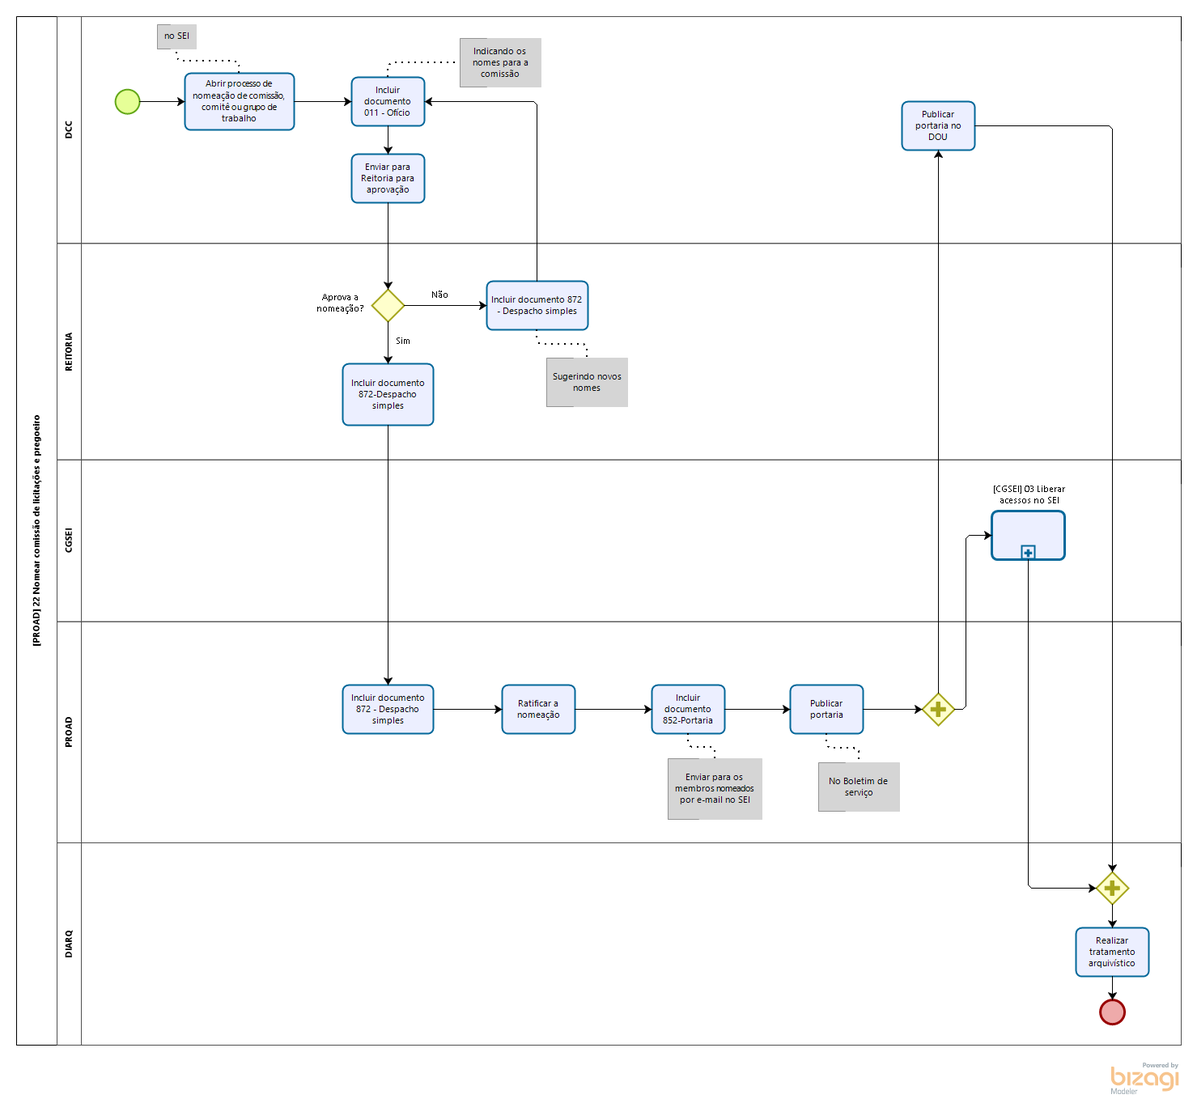
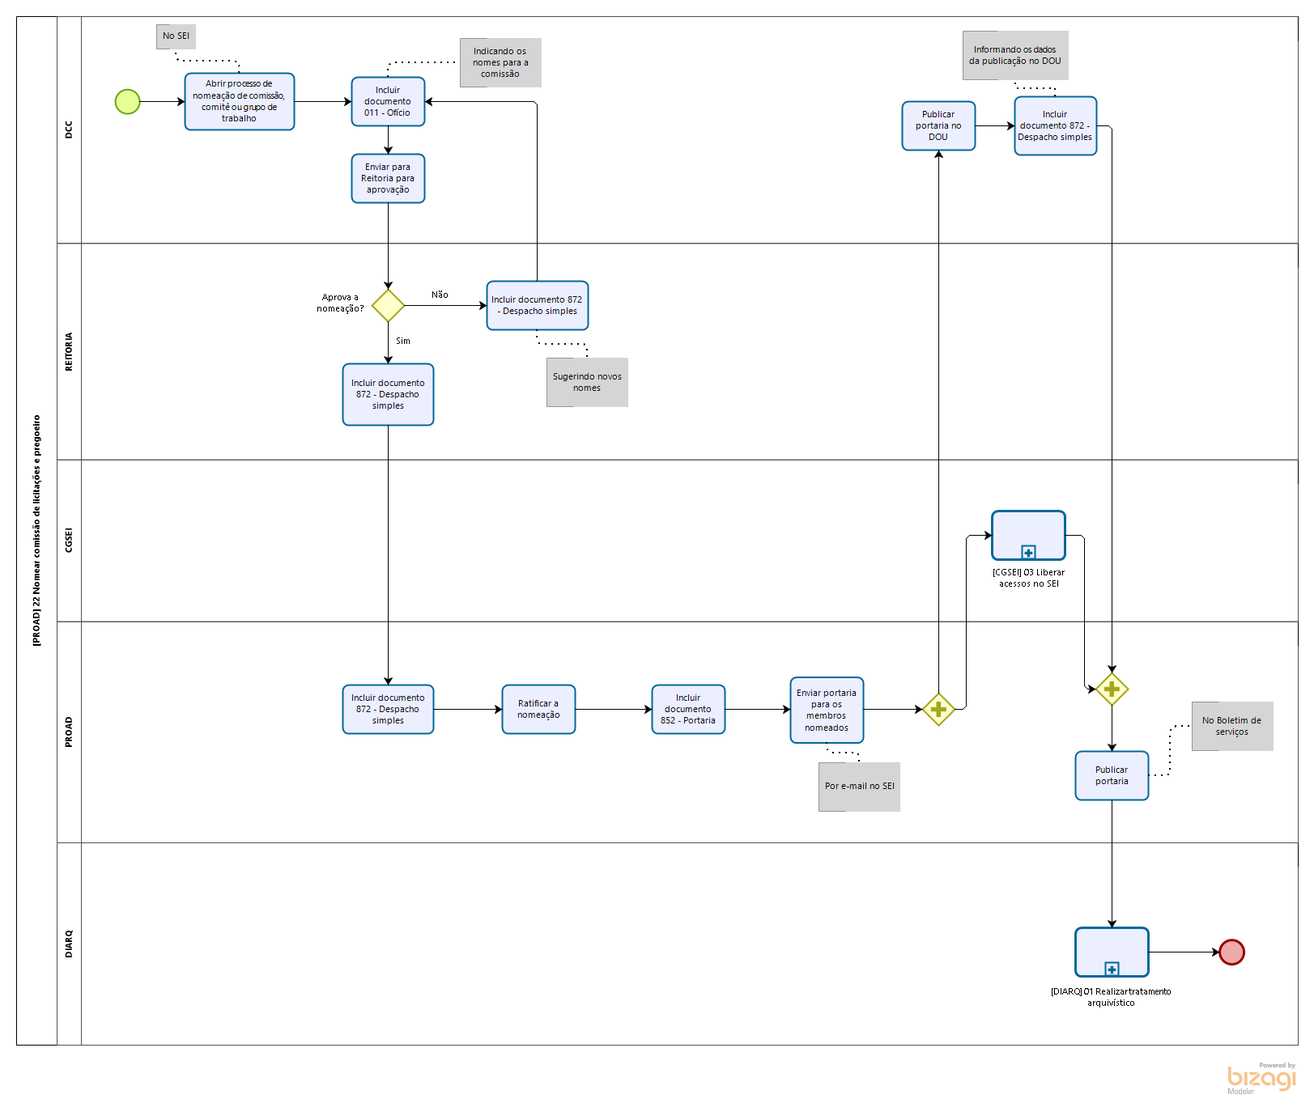
PROAD 22

diff --git a/PROAD/PROAD 22 Nomear comissão de licitações e pregoeiro/libs/js/json/configuration.json.js b/PROAD/PROAD 22 Nomear comissão de licitações e pregoeiro/libs/js/json/configuration.json.js
@@ -1,1 +1,1 @@
-Bizagi.AppModel = {"personalized":false,"userLogoName":"\\libs\\img\\biz-ex-logo.png","bizagiUrl":"http://www.bizagi.com","productName":"Bizagi Modeler","modelName":"[PROAD] 22 Nomear comissão de licitações e pregoeiro","publishDate":"10/12/2020 11:36:10","pages":[{"id":"64fc5b41-b03e-4a25-958b-0a0269b7d483","name":"[PROAD] 22 Nomear comissão de licitações e pregoeiro","version":"1.0","author":"Bruno Fernandes","image":"files\\diagrams\\PROAD]_22_Nomear_comissao_de_licitacoes_e_pregoeiro.png","isSubprocessPage":false,"elements":[{"id":"ba6270e8-99f4-4b16-87a6-168e9b2f3375","name":"[PROAD] 22 Nomear comissão de licitações e pregoeiro","elementImage":"files\\bpmnElements\\Participant.png","imageBounds":{"points":[{"x":20.0,"y":20.0}],"radius":0.0,"height":1271.0,"width":50.0,"shape":"rect"},"elementType":"Participant","properties":[],"pageElements":[{"id":"da5a8ebd-896b-4e00-bd02-a9fc35922fbb","name":"Nenhum início","elementImage":"files\\bpmnElements\\NoneStart.png","imageBounds":{"points":[{"x":142.0,"y":110.0}],"radius":15.0,"height":30.0,"width":30.0,"shape":"circle"},"elementType":"NoneStart"},{"id":"8e854ee1-35b8-4cb5-bea4-b5c12809ac92","name":"Abrir processo de  nomeação de comissão, comitê ou grupo de trabalho","elementImage":"files\\bpmnElements\\AbstractTask.png","imageBounds":{"points":[{"x":228.0,"y":90.0}],"radius":0.0,"height":70.0,"width":135.0,"shape":"rect"},"elementType":"AbstractTask","properties":[]},{"id":"57d8ec68-05e8-4bab-9058-42f4c6c63956","name":"DCC","elementImage":"files\\bpmnElements\\Lane.png","imageBounds":{"points":[{"x":70.0,"y":20.0}],"radius":0.0,"height":280.2,"width":30.0,"shape":"rect"},"elementType":"Lane"},{"id":"ef9a8643-b8ec-4fb7-ab63-4c253a6f71a9","name":"REITORIA","elementImage":"files\\bpmnElements\\Lane.png","imageBounds":{"points":[{"x":70.0,"y":300.2}],"radius":0.0,"height":267.5,"width":30.0,"shape":"rect"},"elementType":"Lane"},{"id":"90c2c290-04de-473e-875b-03fd46831cf9","name":"PROAD","elementImage":"files\\bpmnElements\\Lane.png","imageBounds":{"points":[{"x":70.0,"y":767.7}],"radius":0.0,"height":273.3,"width":30.0,"shape":"rect"},"elementType":"Lane"},{"id":"57d8ec68-05e8-4bab-9058-42f4c6c63956","name":"DCC","elementImage":"files\\bpmnElements\\Lane.png","imageBounds":{"points":[{"x":70.0,"y":20.0}],"radius":0.0,"height":280.2,"width":30.0,"shape":"rect"},"elementType":"Lane"},{"id":"ef9a8643-b8ec-4fb7-ab63-4c253a6f71a9","name":"REITORIA","elementImage":"files\\bpmnElements\\Lane.png","imageBounds":{"points":[{"x":70.0,"y":300.2}],"radius":0.0,"height":267.5,"width":30.0,"shape":"rect"},"elementType":"Lane"},{"id":"90c2c290-04de-473e-875b-03fd46831cf9","name":"PROAD","elementImage":"files\\bpmnElements\\Lane.png","imageBounds":{"points":[{"x":70.0,"y":767.7}],"radius":0.0,"height":273.3,"width":30.0,"shape":"rect"},"elementType":"Lane"},{"id":"e2c154f0-beac-4049-bf70-78d9eca9ef02","name":"Incluir documento 011 - Ofício","elementImage":"files\\bpmnElements\\AbstractTask.png","imageBounds":{"points":[{"x":434.0,"y":95.0}],"radius":0.0,"height":60.0,"width":90.0,"shape":"rect"},"elementType":"AbstractTask","properties":[]},{"id":"6f99d1d7-82e8-4f7c-b877-13d1266030d3","name":"Enviar para Reitoria para aprovação","elementImage":"files\\bpmnElements\\AbstractTask.png","imageBounds":{"points":[{"x":434.0,"y":190.0}],"radius":0.0,"height":60.0,"width":90.0,"shape":"rect"},"elementType":"AbstractTask","properties":[]},{"id":"c2799ef6-8d69-45f1-9096-376ca0eb63aa","name":"Aprova a nomeação?","elementImage":"files\\bpmnElements\\ExclusiveGateway.png","imageBounds":{"points":[{"x":459.0,"y":357.0}],"radius":0.0,"height":40.0,"width":40.0,"shape":"poly"},"elementType":"ExclusiveGateway","properties":[],"pageElements":[{"name":"Sim","elementType":"SequenceFlow","properties":[]},{"name":"Não","elementType":"SequenceFlow","properties":[]}]},{"id":"3b0ee128-5350-4245-8848-e87b3ca53395","name":"Incluir documento 872- Despacho simples","elementImage":"files\\bpmnElements\\AbstractTask.png","imageBounds":{"points":[{"x":601.0,"y":347.0}],"radius":0.0,"height":60.0,"width":125.0,"shape":"rect"},"elementType":"AbstractTask","properties":[]},{"id":"ff5251ca-e940-4129-a2d6-00d5cb6e92ca","name":"Incluir documento 872-Despacho simples","elementImage":"files\\bpmnElements\\AbstractTask.png","imageBounds":{"points":[{"x":423.0,"y":449.0}],"radius":0.0,"height":76.0,"width":112.0,"shape":"rect"},"elementType":"AbstractTask","properties":[]},{"id":"d5491ead-7482-47f9-8b35-8c26db7b340d","name":"Incluir documento 872 - Despacho simples","elementImage":"files\\bpmnElements\\AbstractTask.png","imageBounds":{"points":[{"x":423.0,"y":846.0}],"radius":0.0,"height":60.0,"width":112.0,"shape":"rect"},"elementType":"AbstractTask","properties":[]},{"id":"7b7dd0c7-d32e-42b6-af49-aeb5d478c326","name":"Ratificar a nomeação","elementImage":"files\\bpmnElements\\AbstractTask.png","imageBounds":{"points":[{"x":620.0,"y":846.0}],"radius":0.0,"height":60.0,"width":90.0,"shape":"rect"},"elementType":"AbstractTask","properties":[]},{"id":"81e67d46-94cf-4c85-966d-fb8994207d53","name":"Incluir documento 852-Portaria","elementImage":"files\\bpmnElements\\AbstractTask.png","imageBounds":{"points":[{"x":805.0,"y":846.0}],"radius":0.0,"height":60.0,"width":90.0,"shape":"rect"},"elementType":"AbstractTask","properties":[]},{"id":"2d366a00-d49a-4fe0-94fa-05c2d1e3270e","name":"Publicar portaria","elementImage":"files\\bpmnElements\\AbstractTask.png","imageBounds":{"points":[{"x":976.0,"y":846.0}],"radius":0.0,"height":60.0,"width":90.0,"shape":"rect"},"elementType":"AbstractTask","properties":[]},{"id":"4969b5d2-f824-42e3-9bf7-12da68d71985","name":"Gateway paralelo","elementImage":"files\\bpmnElements\\ParallelGateway.png","imageBounds":{"points":[{"x":1139.0,"y":856.0}],"radius":0.0,"height":40.0,"width":40.0,"shape":"poly"},"elementType":"ParallelGateway","properties":[],"pageElements":[]},{"id":"147084a3-d3ad-4a9b-8532-55f50103b21e","name":"Publicar portaria no DOU","elementImage":"files\\bpmnElements\\AbstractTask.png","imageBounds":{"points":[{"x":1114.0,"y":125.0}],"radius":0.0,"height":60.0,"width":90.0,"shape":"rect"},"elementType":"AbstractTask","properties":[]},{"id":"a265e95a-54b6-413a-949a-63fee9dbc4ce","name":"[CGSEI] 03 Liberar acessos no SEI","description":"","elementImage":"files\\bpmnElements\\CallActivity.png","imageBounds":{"points":[{"x":1225.0,"y":631.0}],"radius":0.0,"height":60.0,"width":90.0,"shape":"rect"},"elementType":"CallActivity","properties":[],"presentationAction":{"value":"https://nqi.ufcspa.edu.br/wiki/processos/CGSEI/%5bCGSEI%5d%2003%20Liberar%20acessos%20no%20SEI/#list","type":"url"}},{"id":"e7890152-ce52-49d3-8ee7-d815984a65d1","name":"Gateway paralelo","elementImage":"files\\bpmnElements\\ParallelGateway.png","imageBounds":{"points":[{"x":1354.0,"y":1077.0}],"radius":0.0,"height":40.0,"width":40.0,"shape":"poly"},"elementType":"ParallelGateway","properties":[],"pageElements":[]},{"id":"9c193354-2b15-43d5-b228-4de8919eea5a","name":"Realizar tratamento arquivístico","elementImage":"files\\bpmnElements\\AbstractTask.png","imageBounds":{"points":[{"x":1329.0,"y":1146.0}],"radius":0.0,"height":60.0,"width":90.0,"shape":"rect"},"elementType":"AbstractTask","properties":[]},{"id":"c90f9850-667c-4e12-a139-5583dbb0e19b","name":"Nenhum final","elementImage":"files\\bpmnElements\\NoneEnd.png","imageBounds":{"points":[{"x":1359.0,"y":1235.0}],"radius":15.0,"height":30.0,"width":30.0,"shape":"circle"},"elementType":"NoneEnd"},{"id":"3848880f-bb76-43a7-882b-63dbb5c32749","name":"CGSEI","elementImage":"files\\bpmnElements\\Lane.png","imageBounds":{"points":[{"x":70.0,"y":567.7}],"radius":0.0,"height":200.0,"width":30.0,"shape":"rect"},"elementType":"Lane"},{"id":"1b283036-4679-4e38-ab5a-4e81e267622c","name":"DIARQ","elementImage":"files\\bpmnElements\\Lane.png","imageBounds":{"points":[{"x":70.0,"y":1041.0}],"radius":0.0,"height":250.0,"width":30.0,"shape":"rect"},"elementType":"Lane"}]}]}],"texts":{"tableOfContents":"Índice","pageNumber":"Página","pageNumberLabelOf":"de","version":"Versão","author":"Autor","description":"Descrição","mainPool":"Processo principal","mainPoolDescription":"Processo principal Descrição","processDiagrams":"Processar os Diagramas","processElements":"Elementos do processo","elements":"Elementos do processo","defaultElementName":"Elemento","performers":"Executantes","accountable":"Autoridade","consulted":"Consultado","informed":"Informado","connectors":"Conectores","connector":"Conector","home":"Principal","search":"Pesquisar","goToParentProcess":"<< Ir para Matriz","visitBizagi":"Visite bizagi.com","contains":"Contém {0} subprocessos","showAll":"Show all","fullScreen":"Tela inteira","zoomIn":"Ampliar","zoomOut":"Reduzir","close":"Fechar","menu":"Menu: ","errorPage":"Erro ao visualizar a página","process":"Processo","subProcess":"Subprocessos publicados","contain":"Contém","checkAttributes":"Ver atributos","checkOverview":"Ver resumo","unavailableResource":"O recurso não está disponível","localResource":"O recurso pode ser acessado localmente","performer":"Participantes","linktoimage":"Link para a  imagem","presentationAction":"Ações de apresentação","searchGlobal":"Busca todos","searchLocal":"Busca neste processo","searchResults":"Nenhum resultado encontrado","titlePage":"Start","emptyElement":"Este elemento ainda não foi documentado","unsupported":"Seu navegador não suporta conteúdo exibido por esta página. <br> Recomendamos que você atualizar o seu navegador.","details":"Detalhes","expand":"Expandir","mainPoolProperties":"Propriedades do Processo principal","cannotVisualize":"The page cannot be displayed","resourceNotFound":"The requested resource was not found:","applyTheme":"Applying new theme"},"searchMap":[{"containerId":"64fc5b41-b03e-4a25-958b-0a0269b7d483","containerName":"[PROAD] 22 Nomear comissão de licitações e pregoeiro","isSubprocess":false,"elements":[{"id":"ba6270e8-99f4-4b16-87a6-168e9b2f3375","value":"[PROAD] 22 Nomear comissão de licitações e pregoeiro"},{"id":"57d8ec68-05e8-4bab-9058-42f4c6c63956","value":"DCC"},{"id":"ef9a8643-b8ec-4fb7-ab63-4c253a6f71a9","value":"REITORIA"},{"id":"3848880f-bb76-43a7-882b-63dbb5c32749","value":"CGSEI"},{"id":"90c2c290-04de-473e-875b-03fd46831cf9","value":"PROAD"},{"id":"1b283036-4679-4e38-ab5a-4e81e267622c","value":"DIARQ"},{"id":"da5a8ebd-896b-4e00-bd02-a9fc35922fbb","value":""},{"id":"8e854ee1-35b8-4cb5-bea4-b5c12809ac92","value":"Abrir processo de  nomeação de comissão, comitê ou grupo de trabalho"},{"id":"e2c154f0-beac-4049-bf70-78d9eca9ef02","value":"Incluir documento 011 - Ofício"},{"id":"6f99d1d7-82e8-4f7c-b877-13d1266030d3","value":"Enviar para Reitoria para aprovação"},{"id":"c2799ef6-8d69-45f1-9096-376ca0eb63aa","value":"Aprova a nomeação?"},{"id":"ff5251ca-e940-4129-a2d6-00d5cb6e92ca","value":"Incluir documento 872-Despacho simples"},{"id":"3b0ee128-5350-4245-8848-e87b3ca53395","value":"Incluir documento 872- Despacho simples"},{"id":"d5491ead-7482-47f9-8b35-8c26db7b340d","value":"Incluir documento 872 - Despacho simples"},{"id":"7b7dd0c7-d32e-42b6-af49-aeb5d478c326","value":"Ratificar a nomeação"},{"id":"81e67d46-94cf-4c85-966d-fb8994207d53","value":"Incluir documento 852-Portaria"},{"id":"147084a3-d3ad-4a9b-8532-55f50103b21e","value":"Publicar portaria no DOU"},{"id":"2d366a00-d49a-4fe0-94fa-05c2d1e3270e","value":"Publicar portaria"},{"id":"9c193354-2b15-43d5-b228-4de8919eea5a","value":"Realizar tratamento arquivístico"},{"id":"c90f9850-667c-4e12-a139-5583dbb0e19b","value":""},{"id":"4969b5d2-f824-42e3-9bf7-12da68d71985","value":""},{"id":"e7890152-ce52-49d3-8ee7-d815984a65d1","value":""},{"id":"a265e95a-54b6-413a-949a-63fee9dbc4ce","value":"[CGSEI] 03 Liberar acessos no SEI"},{"id":"344d375e-92ae-4c0e-ac44-d79a0ffb0c77"},{"id":"81999514-4bc9-429d-99a4-53d998432d12"},{"id":"61d5a019-e163-47fc-b377-5ef99f2a3917"},{"id":"cf9b50cc-cc05-409a-86f4-30cd8761efe8"},{"id":"eec37038-e5d3-45b5-980f-f6a1b6ae4fbf"},{"id":"a9863260-39fe-4575-8215-0b0b3f1d585c"},{"id":"d6be0c3e-3e79-40c5-9936-cc0b3539259b"},{"id":"e10fc07d-c79c-4c75-ba32-6ff0dd61aa27"},{"id":"15988e49-9b43-4a05-be03-995670a70f96"},{"id":"799d159b-051e-4e15-a0ab-5075e9b3941c"}]}]}
+Bizagi.AppModel = {"personalized":false,"userLogoName":"\\libs\\img\\biz-ex-logo.png","bizagiUrl":"http://www.bizagi.com","productName":"Bizagi Modeler","modelName":"[PROAD] 22 Nomear comissão de licitações e pregoeiro","publishDate":"20/04/2022 11:36:55","pages":[{"id":"64fc5b41-b03e-4a25-958b-0a0269b7d483","name":"[PROAD] 22 Nomear comissão de licitações e pregoeiro","version":"1.0","author":"Bruno Fernandes","image":"files\\diagrams\\PROAD]_22_Nomear_comissao_de_licitacoes_e_pregoeiro.png","isSubprocessPage":false,"elements":[{"id":"ba6270e8-99f4-4b16-87a6-168e9b2f3375","name":"[PROAD] 22 Nomear comissão de licitações e pregoeiro","elementImage":"files\\bpmnElements\\Participant.png","imageBounds":{"points":[{"x":20.0,"y":20.0}],"radius":0.0,"height":1271.0,"width":50.0,"shape":"rect"},"elementType":"Participant","properties":[],"pageElements":[{"id":"da5a8ebd-896b-4e00-bd02-a9fc35922fbb","name":"Nenhum início","elementImage":"files\\bpmnElements\\NoneStart.png","imageBounds":{"points":[{"x":142.0,"y":110.0}],"radius":15.0,"height":30.0,"width":30.0,"shape":"circle"},"elementType":"NoneStart"},{"id":"8e854ee1-35b8-4cb5-bea4-b5c12809ac92","name":"Abrir processo de  nomeação de comissão, comitê ou grupo de trabalho","elementImage":"files\\bpmnElements\\AbstractTask.png","imageBounds":{"points":[{"x":228.0,"y":90.0}],"radius":0.0,"height":70.0,"width":135.0,"shape":"rect"},"elementType":"AbstractTask","properties":[]},{"id":"57d8ec68-05e8-4bab-9058-42f4c6c63956","name":"DCC","elementImage":"files\\bpmnElements\\Lane.png","imageBounds":{"points":[{"x":70.0,"y":20.0}],"radius":0.0,"height":280.2,"width":30.0,"shape":"rect"},"elementType":"Lane"},{"id":"ef9a8643-b8ec-4fb7-ab63-4c253a6f71a9","name":"REITORIA","elementImage":"files\\bpmnElements\\Lane.png","imageBounds":{"points":[{"x":70.0,"y":300.2}],"radius":0.0,"height":267.5,"width":30.0,"shape":"rect"},"elementType":"Lane"},{"id":"90c2c290-04de-473e-875b-03fd46831cf9","name":"PROAD","elementImage":"files\\bpmnElements\\Lane.png","imageBounds":{"points":[{"x":70.0,"y":767.7}],"radius":0.0,"height":273.3,"width":30.0,"shape":"rect"},"elementType":"Lane"},{"id":"57d8ec68-05e8-4bab-9058-42f4c6c63956","name":"DCC","elementImage":"files\\bpmnElements\\Lane.png","imageBounds":{"points":[{"x":70.0,"y":20.0}],"radius":0.0,"height":280.2,"width":30.0,"shape":"rect"},"elementType":"Lane"},{"id":"ef9a8643-b8ec-4fb7-ab63-4c253a6f71a9","name":"REITORIA","elementImage":"files\\bpmnElements\\Lane.png","imageBounds":{"points":[{"x":70.0,"y":300.2}],"radius":0.0,"height":267.5,"width":30.0,"shape":"rect"},"elementType":"Lane"},{"id":"90c2c290-04de-473e-875b-03fd46831cf9","name":"PROAD","elementImage":"files\\bpmnElements\\Lane.png","imageBounds":{"points":[{"x":70.0,"y":767.7}],"radius":0.0,"height":273.3,"width":30.0,"shape":"rect"},"elementType":"Lane"},{"id":"e2c154f0-beac-4049-bf70-78d9eca9ef02","name":"Incluir documento 011 - Ofício","elementImage":"files\\bpmnElements\\AbstractTask.png","imageBounds":{"points":[{"x":434.0,"y":95.0}],"radius":0.0,"height":60.0,"width":90.0,"shape":"rect"},"elementType":"AbstractTask","properties":[]},{"id":"6f99d1d7-82e8-4f7c-b877-13d1266030d3","name":"Enviar para Reitoria para aprovação","elementImage":"files\\bpmnElements\\AbstractTask.png","imageBounds":{"points":[{"x":434.0,"y":190.0}],"radius":0.0,"height":60.0,"width":90.0,"shape":"rect"},"elementType":"AbstractTask","properties":[]},{"id":"c2799ef6-8d69-45f1-9096-376ca0eb63aa","name":"Aprova a nomeação?","elementImage":"files\\bpmnElements\\ExclusiveGateway.png","imageBounds":{"points":[{"x":459.0,"y":357.0}],"radius":0.0,"height":40.0,"width":40.0,"shape":"poly"},"elementType":"ExclusiveGateway","properties":[],"pageElements":[{"name":"Sim","elementType":"SequenceFlow","properties":[]},{"name":"Não","elementType":"SequenceFlow","properties":[]}]},{"id":"3b0ee128-5350-4245-8848-e87b3ca53395","name":"Incluir documento 872- Despacho simples","elementImage":"files\\bpmnElements\\AbstractTask.png","imageBounds":{"points":[{"x":601.0,"y":347.0}],"radius":0.0,"height":60.0,"width":125.0,"shape":"rect"},"elementType":"AbstractTask","properties":[]},{"id":"ff5251ca-e940-4129-a2d6-00d5cb6e92ca","name":"Incluir documento 872 - Despacho simples","elementImage":"files\\bpmnElements\\AbstractTask.png","imageBounds":{"points":[{"x":423.0,"y":449.0}],"radius":0.0,"height":76.0,"width":112.0,"shape":"rect"},"elementType":"AbstractTask","properties":[]},{"id":"d5491ead-7482-47f9-8b35-8c26db7b340d","name":"Incluir documento 872 - Despacho simples","elementImage":"files\\bpmnElements\\AbstractTask.png","imageBounds":{"points":[{"x":423.0,"y":846.0}],"radius":0.0,"height":60.0,"width":112.0,"shape":"rect"},"elementType":"AbstractTask","properties":[]},{"id":"7b7dd0c7-d32e-42b6-af49-aeb5d478c326","name":"Ratificar a nomeação","elementImage":"files\\bpmnElements\\AbstractTask.png","imageBounds":{"points":[{"x":620.0,"y":846.0}],"radius":0.0,"height":60.0,"width":90.0,"shape":"rect"},"elementType":"AbstractTask","properties":[]},{"id":"81e67d46-94cf-4c85-966d-fb8994207d53","name":"Incluir documento 852 - Portaria","elementImage":"files\\bpmnElements\\AbstractTask.png","imageBounds":{"points":[{"x":805.0,"y":846.0}],"radius":0.0,"height":60.0,"width":90.0,"shape":"rect"},"elementType":"AbstractTask","properties":[]},{"id":"2d366a00-d49a-4fe0-94fa-05c2d1e3270e","name":"Enviar portaria para os membros nomeados","elementImage":"files\\bpmnElements\\AbstractTask.png","imageBounds":{"points":[{"x":976.0,"y":836.5}],"radius":0.0,"height":81.0,"width":90.0,"shape":"rect"},"elementType":"AbstractTask","properties":[]},{"id":"4969b5d2-f824-42e3-9bf7-12da68d71985","name":"Gateway paralelo","elementImage":"files\\bpmnElements\\ParallelGateway.png","imageBounds":{"points":[{"x":1139.0,"y":856.0}],"radius":0.0,"height":40.0,"width":40.0,"shape":"poly"},"elementType":"ParallelGateway","properties":[],"pageElements":[]},{"id":"147084a3-d3ad-4a9b-8532-55f50103b21e","name":"Publicar portaria no DOU","elementImage":"files\\bpmnElements\\AbstractTask.png","imageBounds":{"points":[{"x":1114.0,"y":125.0}],"radius":0.0,"height":60.0,"width":90.0,"shape":"rect"},"elementType":"AbstractTask","properties":[]},{"id":"62f4bd18-f256-4524-87ab-0f562a6d4d0f","name":"Incluir documento 872 - Despacho simples","elementImage":"files\\bpmnElements\\AbstractTask.png","imageBounds":{"points":[{"x":1253.0,"y":119.0}],"radius":0.0,"height":72.0,"width":101.0,"shape":"rect"},"elementType":"AbstractTask","properties":[]},{"id":"a265e95a-54b6-413a-949a-63fee9dbc4ce","name":"[CGSEI] 03 Liberar acessos no SEI","description":"","elementImage":"files\\bpmnElements\\CallActivity.png","imageBounds":{"points":[{"x":1225.0,"y":631.0}],"radius":0.0,"height":60.0,"width":90.0,"shape":"rect"},"elementType":"CallActivity","properties":[],"presentationAction":{"value":"https://nqi.ufcspa.edu.br/wiki/processos/CGSEI/%5bCGSEI%5d%2003%20Liberar%20acessos%20no%20SEI/#list","type":"url"}},{"id":"e7890152-ce52-49d3-8ee7-d815984a65d1","name":"Gateway paralelo","elementImage":"files\\bpmnElements\\ParallelGateway.png","imageBounds":{"points":[{"x":1353.0,"y":831.0}],"radius":0.0,"height":40.0,"width":40.0,"shape":"poly"},"elementType":"ParallelGateway","properties":[],"pageElements":[]},{"id":"fe0187c0-8615-48b3-81c4-851fbd298bc7","name":"Publicar portaria","elementImage":"files\\bpmnElements\\AbstractTask.png","imageBounds":{"points":[{"x":1328.0,"y":928.0}],"radius":0.0,"height":60.0,"width":90.0,"shape":"rect"},"elementType":"AbstractTask","properties":[]},{"id":"9c193354-2b15-43d5-b228-4de8919eea5a","name":"[DIARQ] 01 Realizar tratamento arquivístico","description":"","elementImage":"files\\bpmnElements\\CallActivity.png","imageBounds":{"points":[{"x":1328.0,"y":1146.0}],"radius":0.0,"height":60.0,"width":90.0,"shape":"rect"},"elementType":"CallActivity","properties":[],"presentationAction":{"value":"https://wwwnqiportai.github.io/DIARQ/DIARQ%2001%20Realizar%20tratamento%20arquivistico/#list","type":"url"}},{"id":"c90f9850-667c-4e12-a139-5583dbb0e19b","name":"Nenhum final","elementImage":"files\\bpmnElements\\NoneEnd.png","imageBounds":{"points":[{"x":1506.0,"y":1161.0}],"radius":15.0,"height":30.0,"width":30.0,"shape":"circle"},"elementType":"NoneEnd"},{"id":"3848880f-bb76-43a7-882b-63dbb5c32749","name":"CGSEI","elementImage":"files\\bpmnElements\\Lane.png","imageBounds":{"points":[{"x":70.0,"y":567.7}],"radius":0.0,"height":200.0,"width":30.0,"shape":"rect"},"elementType":"Lane"},{"id":"1b283036-4679-4e38-ab5a-4e81e267622c","name":"DIARQ","elementImage":"files\\bpmnElements\\Lane.png","imageBounds":{"points":[{"x":70.0,"y":1041.0}],"radius":0.0,"height":250.0,"width":30.0,"shape":"rect"},"elementType":"Lane"}]}]}],"texts":{"tableOfContents":"Índice","pageNumber":"Página","pageNumberLabelOf":"de","version":"Versão","author":"Autor","description":"Descrição","mainPool":"Processo principal","mainPoolDescription":"Processo principal Descrição","processDiagrams":"Processar os Diagramas","processElements":"Elementos do processo","elements":"Elementos do processo","defaultElementName":"Elemento","performers":"Executantes","accountable":"Autoridade","consulted":"Consultado","informed":"Informado","connectors":"Conectores","connector":"Conector","home":"Principal","search":"Pesquisar","goToParentProcess":"<< Ir para Matriz","visitBizagi":"Visite bizagi.com","contains":"Contém {0} subprocessos","showAll":"Show all","fullScreen":"Tela inteira","zoomIn":"Ampliar","zoomOut":"Reduzir","close":"Fechar","menu":"Menu: ","errorPage":"Erro ao visualizar a página","process":"Processo","subProcess":"Subprocessos publicados","contain":"Contém","checkAttributes":"Ver atributos","checkOverview":"Ver resumo","unavailableResource":"O recurso não está disponível","localResource":"O recurso pode ser acessado localmente","performer":"Participantes","linktoimage":"Link para a  imagem","presentationAction":"Ações de apresentação","searchGlobal":"Busca todos","searchLocal":"Busca neste processo","searchResults":"Nenhum resultado encontrado","titlePage":"Start","emptyElement":"Este elemento ainda não foi documentado","unsupported":"Seu navegador não suporta conteúdo exibido por esta página. <br> Recomendamos que você atualizar o seu navegador.","details":"Detalhes","expand":"Expandir","mainPoolProperties":"Propriedades do Processo principal","cannotVisualize":"The page cannot be displayed","resourceNotFound":"The requested resource was not found:","applyTheme":"Applying new theme"},"searchMap":[{"containerId":"64fc5b41-b03e-4a25-958b-0a0269b7d483","containerName":"[PROAD] 22 Nomear comissão de licitações e pregoeiro","isSubprocess":false,"elements":[{"id":"ba6270e8-99f4-4b16-87a6-168e9b2f3375","value":"[PROAD] 22 Nomear comissão de licitações e pregoeiro"},{"id":"57d8ec68-05e8-4bab-9058-42f4c6c63956","value":"DCC"},{"id":"ef9a8643-b8ec-4fb7-ab63-4c253a6f71a9","value":"REITORIA"},{"id":"3848880f-bb76-43a7-882b-63dbb5c32749","value":"CGSEI"},{"id":"90c2c290-04de-473e-875b-03fd46831cf9","value":"PROAD"},{"id":"1b283036-4679-4e38-ab5a-4e81e267622c","value":"DIARQ"},{"id":"da5a8ebd-896b-4e00-bd02-a9fc35922fbb","value":""},{"id":"8e854ee1-35b8-4cb5-bea4-b5c12809ac92","value":"Abrir processo de  nomeação de comissão, comitê ou grupo de trabalho"},{"id":"e2c154f0-beac-4049-bf70-78d9eca9ef02","value":"Incluir documento 011 - Ofício"},{"id":"6f99d1d7-82e8-4f7c-b877-13d1266030d3","value":"Enviar para Reitoria para aprovação"},{"id":"c2799ef6-8d69-45f1-9096-376ca0eb63aa","value":"Aprova a nomeação?"},{"id":"ff5251ca-e940-4129-a2d6-00d5cb6e92ca","value":"Incluir documento 872 - Despacho simples"},{"id":"3b0ee128-5350-4245-8848-e87b3ca53395","value":"Incluir documento 872- Despacho simples"},{"id":"d5491ead-7482-47f9-8b35-8c26db7b340d","value":"Incluir documento 872 - Despacho simples"},{"id":"7b7dd0c7-d32e-42b6-af49-aeb5d478c326","value":"Ratificar a nomeação"},{"id":"81e67d46-94cf-4c85-966d-fb8994207d53","value":"Incluir documento 852 - Portaria"},{"id":"147084a3-d3ad-4a9b-8532-55f50103b21e","value":"Publicar portaria no DOU"},{"id":"2d366a00-d49a-4fe0-94fa-05c2d1e3270e","value":"Enviar portaria para os membros nomeados"},{"id":"c90f9850-667c-4e12-a139-5583dbb0e19b","value":""},{"id":"4969b5d2-f824-42e3-9bf7-12da68d71985","value":""},{"id":"e7890152-ce52-49d3-8ee7-d815984a65d1","value":""},{"id":"a265e95a-54b6-413a-949a-63fee9dbc4ce","value":"[CGSEI] 03 Liberar acessos no SEI"},{"id":"62f4bd18-f256-4524-87ab-0f562a6d4d0f","value":"Incluir documento 872 - Despacho simples"},{"id":"9c193354-2b15-43d5-b228-4de8919eea5a","value":"[DIARQ] 01 Realizar tratamento arquivístico"},{"id":"fe0187c0-8615-48b3-81c4-851fbd298bc7","value":"Publicar portaria"},{"id":"344d375e-92ae-4c0e-ac44-d79a0ffb0c77"},{"id":"81999514-4bc9-429d-99a4-53d998432d12"},{"id":"cf9b50cc-cc05-409a-86f4-30cd8761efe8"},{"id":"eec37038-e5d3-45b5-980f-f6a1b6ae4fbf"},{"id":"b6a634d6-2b1a-4d05-a794-0623b6acba5d"},{"id":"f9eff0e8-65f2-4e61-af07-5fadd197bbbc"},{"id":"a9863260-39fe-4575-8215-0b0b3f1d585c"},{"id":"d6be0c3e-3e79-40c5-9936-cc0b3539259b"},{"id":"15988e49-9b43-4a05-be03-995670a70f96"},{"id":"799d159b-051e-4e15-a0ab-5075e9b3941c"},{"id":"da2ddd46-79c3-4458-b4b0-bd0f6ac61dbc"},{"id":"7f7ca39a-c6cf-4222-a8fb-1c7224acc272"}]}]}
